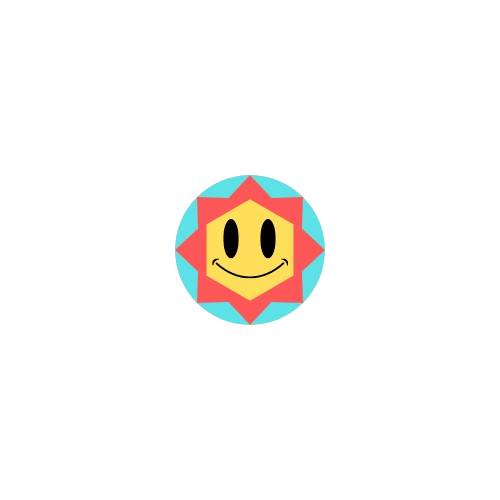
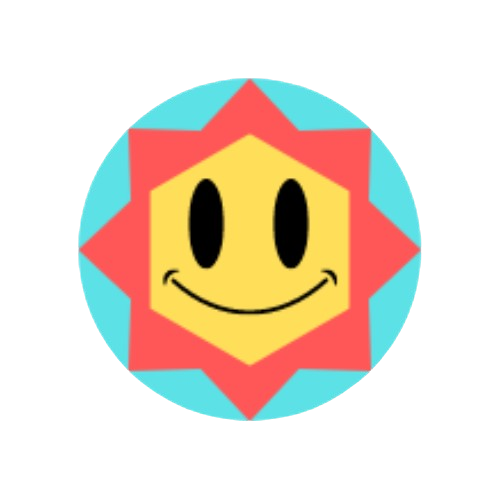
Profile pictures and firebase
Added in larger versions of the profile pictures for easier development and started the firebase file

diff --git a/src/Components/login/Login.jsx b/src/Components/login/Login.jsx
@@ -21,13 +21,13 @@ export default function Login() {
                 <button className="w-[100%] p-5 border-none bg-[#8c52ff] color-white rounded-md font-bold">Sign In</button>
             </form>
         </div>
-        <img src="/logo.png" className="w-28 h-28 object-contain"/>
+        <div className="h-[80%] w-[2px] bg-[#D5A9A9]"></div>
         <div className="flex-1 flex flex-col items-center gap-5">
             <h2>Register Account</h2>
                 <form className="flex flex-col items-center justify-center gap-5">
                     <div className="flex gap-4">
                     {presetProfilePictures.map((image,index)=>(
-                        <div key={index} className={`w-24 h-24 border rounded-full overflow-hidden cursor-pointer hover:border-blue-400`}
+                        <div key={index} className={`w-24 h-24 border-2 rounded-full overflow-hidden cursor-pointer ${selectedImage === image ? "border-[#8c52ff]" : "border-white"} hover:border-[#8c52ff]`}
                         onClick={()=> setSelectedImage(image)}
                         >
                             <img src={image} alt="profile picture" className="w-full h-full object-cover"/>
@@ -37,7 +37,7 @@ export default function Login() {
                     <input type="text" placeholder="Username" name="username" className="p-5 border-none outline-none bg-white rounded-md text-[#8c52ff]"/>
                     <input type="text" placeholder="E-Mail" name="email" className="p-5 border-none outline-none bg-white rounded-md text-[#8c52ff]"/>
                     <input type="password" placeholder="Password" name="password" className="p-5 border-none outline-none bg-white rounded-md text-[#8c52ff]"/>
-                    <button className="w-[100%] p-5 border-none bg-[#8c52ff] color-white rounded-md font-bold">Sign Up</button>
+                    <button className="w-[77.5%] p-5 border-none bg-[#8c52ff] color-white rounded-md font-bold">Sign Up</button>
                 </form>
         </div>
     </div>

diff --git a/src/lib/firebase.js b/src/lib/firebase.js
@@ -1,0 +1,17 @@
+// Import the functions you need from the SDKs you need
+import { initializeApp } from "firebase/app";
+// TODO: Add SDKs for Firebase products that you want to use
+// https://firebase.google.com/docs/web/setup#available-libraries
+
+// Your web app's Firebase configuration
+const firebaseConfig = {
+  apiKey: "AIzaSyBic8vZs20ksS63GScB0wXqQSDqnYoCmcI",
+  authDomain: "migme-be891.firebaseapp.com",
+  projectId: "migme-be891",
+  storageBucket: "migme-be891.appspot.com",
+  messagingSenderId: "231259076957",
+  appId: "1:231259076957:web:d61c2cae41ea792056d0b4"
+};
+
+// Initialize Firebase
+const app = initializeApp(firebaseConfig);
